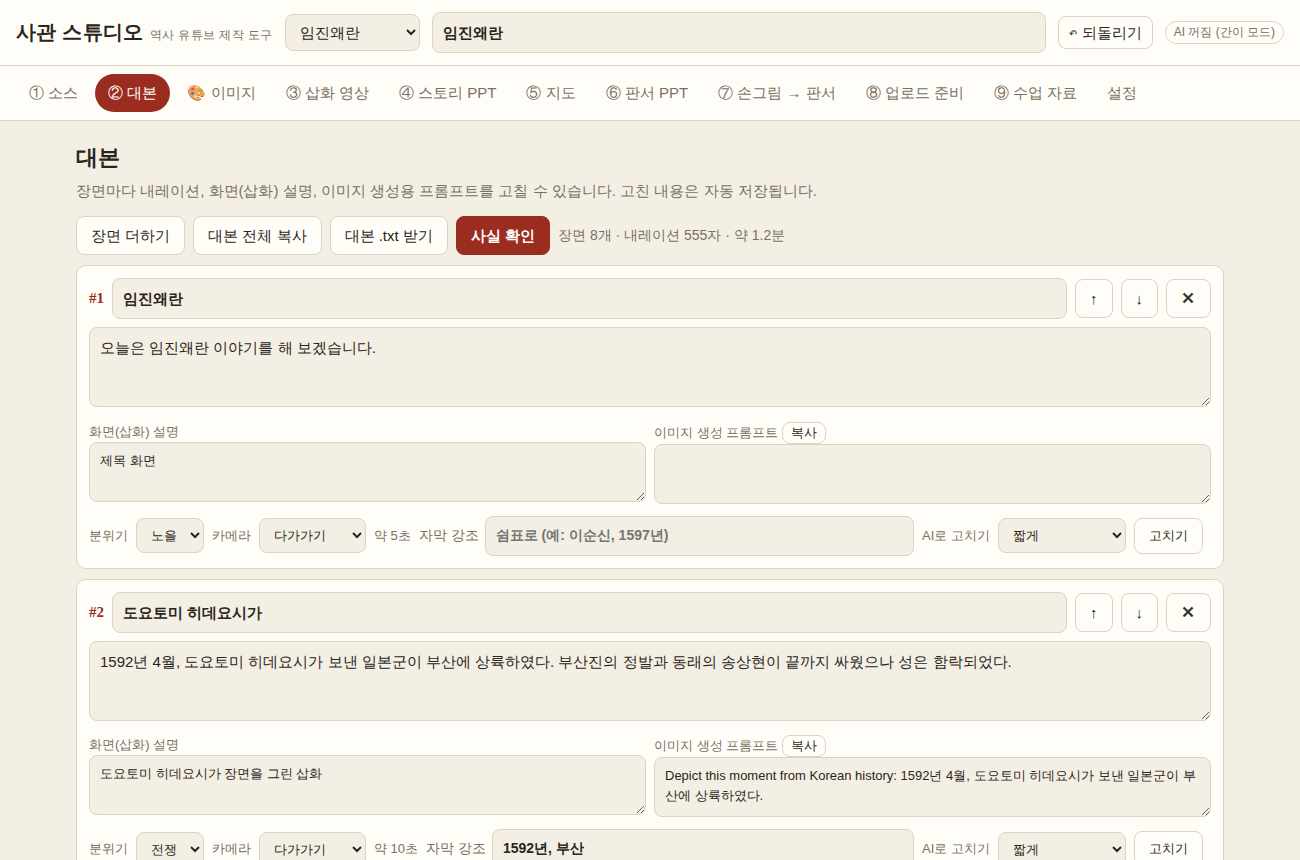
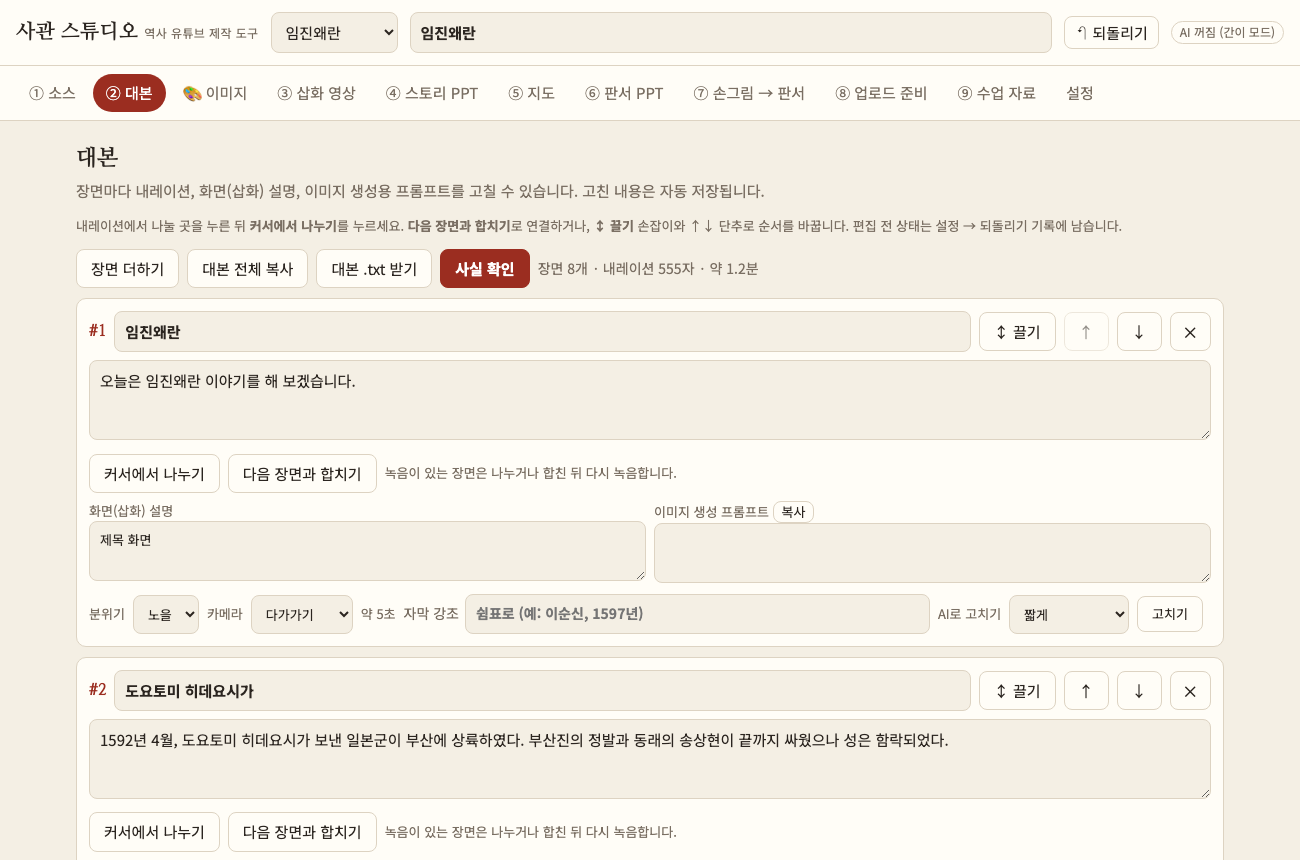
feat: add scene splitting merging and reordering

diff --git a/assets/scene-edit.js b/assets/scene-edit.js
@@ -1,0 +1,94 @@
+/* 장면 편집: 편집 전 기록을 남기고, 장면 번호를 사용하는 자료도 함께 옮깁니다. */
+(function(){
+  'use strict';
+  var HS = window.HS;
+  function clone(x){ return JSON.parse(JSON.stringify(x)); }
+  function sentences(text){ return (String(text || '').match(/[^.!?。]+[.!?。]?/g) || []).filter(function(x){ return x.trim(); }); }
+  function id(){
+    var next;
+    do { next = Math.random().toString(36).slice(2, 6); } while(HS.findShot(next));
+    return next;
+  }
+  function pictureShots(s){
+    if(s.shots && s.shots.length) return clone(s.shots);
+    if(s.image) return [{ id: id(), type: 'scene', desc: s.visual || s.heading, prompt: s.prompt || '', sentence: 0, places: [], image: s.image }];
+    return [{ id: id(), type: 'scene', desc: s.visual || s.heading, prompt: s.prompt || '', sentence: 0, places: [], image: HS.sceneStill(s, 1280, 720).toDataURL('image/png') }];
+  }
+  function remap(p, oldScenes, mapping, changedText){
+    if(p.thumb){ var ti = mapping[+p.thumb.scene]; p.thumb.scene = ti == null ? 0 : ti; }
+    if(changedText) p.checks = null;
+    else if(p.checks) p.checks.items = p.checks.items.filter(function(item){
+      var next = mapping[item.scene - 1]; if(next == null) return false; item.scene = next + 1; return true;
+    });
+    if(p.lesson) p.lesson.quiz.forEach(function(q){
+      if(q.scene > 0){ var next = mapping[q.scene - 1]; q.scene = next == null ? 0 : next + 1; }
+    });
+  }
+  HS.editScenes = function(action, index, value, options){
+    options = options || {};
+    var p = HS.project, old = p.scenes, a = old[index], b = old[index + 1];
+    if(HS.sceneEditBusy) return Promise.reject(new Error('앞선 장면 편집을 저장하고 있습니다. 잠시 기다려 주세요.'));
+    if(!a) return Promise.reject(new Error('장면을 찾을 수 없습니다.'));
+    if(HS.Q && HS.Q.running) return Promise.reject(new Error('그림 생성이 끝난 뒤 장면을 편집해 주세요.'));
+    if(['move', 'split', 'merge', 'delete'].indexOf(action) < 0) return Promise.reject(new Error('지원하지 않는 편집입니다.'));
+    if(action === 'move' && (value < 0 || value >= old.length || value === index)) return Promise.resolve(index);
+    if(action === 'merge' && !b) return Promise.reject(new Error('다음 장면이 없습니다.'));
+    var text = a.narration || '', cut = Math.floor(value);
+    if(action === 'split' && (!text.slice(0, cut).trim() || !text.slice(cut).trim() || !(cut > 0 && cut < text.length)))
+      return Promise.reject(new Error('내레이션에서 나눌 곳을 눌러 커서를 놓으세요. 앞뒤에 글이 있어야 합니다.'));
+    if((action === 'split' || action === 'merge') && (a.audio || (action === 'merge' && b.audio)) && !options.resetAudio)
+      return Promise.reject(new Error('대본이 바뀌면 해당 장면의 목소리를 다시 녹음해야 합니다.'));
+    var before = JSON.stringify(old), label = { move: '순서 바꾸기', split: '나누기', merge: '합치기', delete: '지우기' }[action];
+    HS.sceneEditBusy = true;
+    return HS.snapshot('장면 ' + label + ' 전', true).then(function(){ return action === 'merge' ? HS.preloadImages() : null; }).then(function(){
+      if(HS.project !== p || JSON.stringify(p.scenes) !== before) throw new Error('저장 중 대본이 바뀌었습니다. 다시 눌러 주세요.');
+      var mapping = old.map(function(s, i){ return i; }), scenes = old.slice();
+      if(action === 'move'){
+        scenes.splice(value, 0, scenes.splice(index, 1)[0]);
+        mapping = old.map(function(s){ return scenes.indexOf(s); });
+      } else if(action === 'delete'){
+        scenes.splice(index, 1);
+        mapping = old.map(function(s, i){ return i === index ? null : i > index ? i - 1 : i; });
+      } else if(action === 'split'){
+        var left = clone(a), right = clone(a), front = text.slice(0, cut).trim(), back = text.slice(cut).trim();
+        left.narration = front; right.narration = back; right.heading = (a.heading || '장면') + ' (계속)';
+        left.audio = right.audio = null; left.audioDur = right.audioDur = 0;
+        left.dur = right.dur = null; // 글 길이에 맞게 다시 계산
+        left.keywords = (a.keywords || []).filter(function(k){ return front.indexOf(k) >= 0; });
+        right.keywords = (a.keywords || []).filter(function(k){ return back.indexOf(k) >= 0; });
+        var spans = [], re = /[^.!?。]+[.!?。]?/g, match;
+        while((match = re.exec(text))) if(match[0].trim()) spans.push({start: match.index + match[0].search(/\S/), end: re.lastIndex});
+        var rightSentence = spans.filter(function(s){ return s.end <= cut; }).length;
+        left.shots = []; right.shots = [];
+        (a.shots || []).forEach(function(sh){
+          var copy = clone(sh), span = spans[sh.sentence || 0];
+          if(span && span.start >= cut){ copy.sentence = Math.max(0, (sh.sentence || 0) - rightSentence); right.shots.push(copy); }
+          else left.shots.push(copy);
+        });
+        // 나누는 지점에서 보이던 그림은 뒷 장면 첫 문장에서도 이어집니다. 새 ID로 주문서 충돌을 막습니다.
+        if(left.shots.length && (!right.shots.length || right.shots[0].sentence > 0)){
+          var carry = clone(left.shots[left.shots.length - 1]); carry.id = id(); carry.sentence = 0; right.shots.unshift(carry);
+        }
+        scenes.splice(index, 1, left, right);
+        mapping = old.map(function(s, i){ return i > index ? i + 1 : i; });
+      } else {
+        var merged = clone(a), offset = sentences(a.narration).length;
+        merged.narration = [a.narration, b.narration].filter(Boolean).join('\n');
+        // 마침표 없는 앞 문장도 별개 문장으로 끝내 샷의 문장 번호를 지킵니다.
+        if((a.narration || '').trim() && (b.narration || '').trim() && !/[.!?。]$/.test(a.narration.trim()))
+          merged.narration = a.narration.trim() + '.\n' + b.narration;
+        merged.keywords = (a.keywords || []).concat(b.keywords || []).filter(function(k, i, all){ return all.indexOf(k) === i; });
+        merged.audio = null; merged.audioDur = 0; merged.dur = null;
+        if(HS.sceneKind(a) === 'illust' && HS.sceneKind(b) === 'illust'){
+          merged.shots = pictureShots(a).concat(pictureShots(b).map(function(sh){ sh.sentence = (sh.sentence || 0) + offset; return sh; }));
+        }
+        scenes.splice(index, 2, merged);
+        mapping = old.map(function(s, i){ return i === index + 1 ? index : i > index + 1 ? i - 1 : i; });
+      }
+      p.scenes = scenes;
+      remap(p, old, mapping, action === 'split' || action === 'merge');
+      HS.changed('scenes');
+      return action === 'move' ? value : Math.min(index, scenes.length - 1);
+    }).finally(function(){ HS.sceneEditBusy = false; });
+  };
+})();

diff --git a/assets/ui.js b/assets/ui.js
@@ -161,9 +161,11 @@
     list.innerHTML = p.scenes.map(function(s, i){
       var fl = (flags[i] || []).map(function(v){ return '<span class="flag ' + v + '">' + HS.VERDICT[v] + '</span>'; }).join(' ');
       return '<div class="scene" data-i="' + i + '"><header class="row">' +
-        '<span class="num">#' + (i + 1) + '</span><input type="text" data-k="heading" value="' + HS.esc(s.heading) + '">' + fl +
-        '<button class="btn" data-act="up" title="위로">↑</button><button class="btn" data-act="down" title="아래로">↓</button><button class="btn" data-act="del" title="지우기">✕</button></header>' +
+        '<span class="num">#' + (i + 1) + '</span><input type="text" data-k="heading" aria-label="장면 제목" value="' + HS.esc(s.heading) + '">' + fl +
+        '<span class="btn drag-handle" draggable="true" title="다른 장면으로 끌어서 순서 바꾸기" aria-label="장면 끌기. 키보드에서는 위로 아래로 단추를 사용하세요">↕ 끌기</span>' +
+        '<button class="btn" data-act="up" title="위로" aria-label="장면 위로"' + (i === 0 ? ' disabled' : '') + '>↑</button><button class="btn" data-act="down" title="아래로" aria-label="장면 아래로"' + (i === p.scenes.length - 1 ? ' disabled' : '') + '>↓</button><button class="btn" data-act="del" title="지우기">✕</button></header>' +
         '<textarea data-k="narration" placeholder="내레이션">' + HS.esc(s.narration) + '</textarea>' +
+        '<div class="row scene-tools"><button class="btn" data-act="split">커서에서 나누기</button><button class="btn" data-act="merge"' + (i === p.scenes.length - 1 ? ' disabled' : '') + '>다음 장면과 합치기</button><span class="small">녹음이 있는 장면은 나누거나 합친 뒤 다시 녹음합니다.</span></div>' +
         '<div class="meta"><label class="small">화면(삽화) 설명<textarea data-k="visual">' + HS.esc(s.visual) + '</textarea></label>' +
         '<label class="small">이미지 생성 프롬프트 <button class="btn" data-act="copyprompt" style="padding:0 8px">복사</button><textarea data-k="prompt">' + HS.esc(s.prompt) + '</textarea></label></div>' +
         '<div class="row small" style="margin-top:6px">분위기 <select data-k="mood">' + opts(MOODS, s.mood) + '</select> 카메라 <select data-k="motion">' + opts(MOTIONS, s.motion) + '</select> <span>약 ' + Math.round(HS.sceneDuration(s)) + '초</span>' +
@@ -198,6 +200,30 @@
     HS.changed('scene');
   });
   $('scene-list').addEventListener('change', function(e){ if(e.target.tagName === 'SELECT' && e.target.dataset.k) renderScript(); });
+  function editScene(action, i, value, resetAudio){
+    HS.editScenes(action, i, value, { resetAudio: resetAudio }).then(function(next){
+      renderScript();
+      var input = $('scene-list').querySelector('[data-i="' + next + '"] [data-k="heading"]');
+      if(input) input.focus();
+      HS.toast(action === 'split' || action === 'merge' ? '장면을 편집했습니다. 사실 확인과 수업 자료를 다시 살펴보세요.' : '장면을 편집했습니다. 설정의 되돌리기 기록에서 복원할 수 있습니다.');
+    }).catch(function(err){ status('script-status', err.message, true); });
+  }
+  var draggedScene = null;
+  $('scene-list').addEventListener('dragstart', function(e){
+    var handle = e.target.closest('.drag-handle'); if(!handle) return;
+    draggedScene = +handle.closest('.scene').dataset.i;
+    e.dataTransfer.effectAllowed = 'move'; e.dataTransfer.setData('text/plain', String(draggedScene));
+  });
+  function clearDrop(){ Array.prototype.forEach.call($('scene-list').querySelectorAll('.drag-over'), function(el){ el.classList.remove('drag-over'); }); }
+  $('scene-list').addEventListener('dragover', function(e){
+    var box = e.target.closest('.scene'); if(draggedScene === null || !box) return;
+    e.preventDefault(); e.dataTransfer.dropEffect = 'move'; clearDrop(); box.classList.add('drag-over');
+  });
+  $('scene-list').addEventListener('drop', function(e){
+    var box = e.target.closest('.scene'); if(draggedScene === null || !box) return;
+    e.preventDefault(); var from = draggedScene; draggedScene = null; clearDrop(); editScene('move', from, +box.dataset.i);
+  });
+  $('scene-list').addEventListener('dragend', function(){ draggedScene = null; clearDrop(); });
   $('scene-list').addEventListener('click', function(e){
     var b = e.target.closest('button[data-act]'); if(!b) return;
     var box = b.closest('.scene'), i = +box.dataset.i, sc = P().scenes, act = b.dataset.act;
@@ -212,10 +238,21 @@
         .catch(function(err){ st.textContent = HS.whyFail(err); b.disabled = false; });
       return;
     }
-    if(act === 'del'){ if(!confirm('#' + (i + 1) + ' 장면을 지울까요?')) return; sc.splice(i, 1); }
-    if(act === 'up' && i > 0) sc.splice(i - 1, 0, sc.splice(i, 1)[0]);
-    if(act === 'down' && i < sc.length - 1) sc.splice(i + 1, 0, sc.splice(i, 1)[0]);
-    HS.changed('scenes'); renderScript();
+    if(act === 'split'){
+      var cut = box.querySelector('[data-k="narration"]').selectionStart, text = sc[i].narration || '';
+      if(!text.slice(0, cut).trim() || !text.slice(cut).trim()){ status('script-status', '내레이션에서 나눌 곳을 눌러 커서를 놓으세요. 앞뒤에 글이 있어야 합니다.', true); return; }
+      if(sc[i].audio && !confirm('이 장면의 목소리를 지우고 두 장면으로 나눌까요? 나눈 뒤 다시 녹음해야 합니다. 원본은 되돌리기 기록에 보관합니다.')) return;
+      editScene('split', i, cut, true); return;
+    }
+    if(act === 'merge'){
+      if(!sc[i + 1]) return;
+      var msg = '#' + (i + 1) + '과 #' + (i + 2) + '의 내레이션을 합칠까요?\n삽화 장면끼리는 그림 목록을 연결합니다. 장면 종류·자료·배경·인물·전환은 앞 장면 설정을 사용합니다. SVG 움직임은 정지 그림으로 바뀝니다.\n직접 정한 길이는 글 길이에 맞춰 다시 계산합니다. 원본은 되돌리기 기록에 보관합니다.';
+      if(sc[i].audio || sc[i + 1].audio) msg += '\n두 장면의 목소리는 지워지므로 다시 녹음해야 합니다.';
+      if(confirm(msg)) editScene('merge', i, null, true); return;
+    }
+    if(act === 'del'){ if(confirm('#' + (i + 1) + ' 장면을 지울까요? 원본은 되돌리기 기록에 남습니다.')) editScene('delete', i); return; }
+    if(act === 'up') editScene('move', i, i - 1);
+    if(act === 'down') editScene('move', i, i + 1);
   });
   $('btn-add-scene').addEventListener('click', function(){
     P().scenes.push({ heading: '새 장면', narration: '', visual: '', prompt: '', mood: 'day', motion: 'zoomIn', image: null });

diff --git a/index.html b/index.html
@@ -56,6 +56,9 @@ canvas{ max-width:100%; height:auto; display:block; border-radius:8px; backgroun
 .scene .meta{ display:grid; grid-template-columns:minmax(0,1fr) minmax(0,1fr); gap:8px; margin-top:8px; }
 @media (max-width:620px){ .scene .meta{ grid-template-columns:minmax(0,1fr); } }
 .scene .meta textarea{ min-height:60px; font-size:13px; }
+.scene .drag-handle{ cursor:grab; touch-action:pan-y; }
+.scene.drag-over{ outline:2px solid var(--accent); }
+.scene-tools{ margin:8px 0; }
 .small{ font-size:13px; color:var(--muted); }
 .thumbs{ display:flex; gap:8px; flex-wrap:wrap; }
 .thumbs canvas,.thumbs img{ width:180px; border:1px solid var(--line); }
@@ -200,6 +203,7 @@ table.places input{ width:100%; padding:4px 6px; }
 <section class="tab" id="tab-script">
   <h2>대본</h2>
   <p class="lead">장면마다 내레이션, 화면(삽화) 설명, 이미지 생성용 프롬프트를 고칠 수 있습니다. 고친 내용은 자동 저장됩니다.</p>
+  <p class="small">내레이션에서 나눌 곳을 누른 뒤 <b>커서에서 나누기</b>를 누르세요. <b>다음 장면과 합치기</b>로 연결하거나, <b>↕ 끌기</b> 손잡이와 ↑↓ 단추로 순서를 바꿉니다. 편집 전 상태는 설정 → 되돌리기 기록에 남습니다.</p>
   <div class="row" style="margin-bottom:10px">
     <button class="btn" id="btn-add-scene">장면 더하기</button>
     <button class="btn" id="btn-copy-script">대본 전체 복사</button>
@@ -552,6 +556,7 @@ table.places input{ width:100%; padding:4px 6px; }
 <script src="assets/package.js"></script>
 <script src="assets/queue.js"></script>
 <script src="assets/shots-ui.js"></script>
+<script src="assets/scene-edit.js"></script>
 <script src="assets/ui.js"></script>
 </body>
 </html>

diff --git a/assets/app.js b/assets/app.js
@@ -173,14 +173,14 @@
   HS.snapshots = function(){
     return idbGet('history:' + HS.project.id).catch(function(){ return null; }).then(function(h){ return h || []; });
   };
-  HS.snapshot = function(label){
+  HS.snapshot = function(label, required){
     var p = HS.project;
     if(!p.scenes.length) return Promise.resolve(); // 대본이 없으면 되돌릴 것도 없습니다
     var snap = { at: new Date().toISOString(), label: label, title: p.title, scenes: p.scenes.length, project: JSON.parse(JSON.stringify(p)) };
     return HS.snapshots().then(function(h){
       h.unshift(snap);
       return idbPut('history:' + p.id, h.slice(0, SNAP_MAX));
-    }).catch(function(){});
+    }).catch(function(e){ if(required) throw new Error('되돌리기 기록을 저장하지 못해 편집을 멈췄습니다. 백업을 받은 뒤 저장 공간을 확인해 주세요.'); });
   };
   HS.restoreSnapshot = function(i){
     return HS.snapshots().then(function(h){

diff --git a/docs/HANDOFF.md b/docs/HANDOFF.md
@@ -26,6 +26,34 @@ Codex와 Claude Code가 번갈아 이 프로젝트를 고칩니다. **작업을 
 
 ## 기록
 
+### 2026-09-25 · Codex · codex/scene-editing
+
+**한 일**
+- 선생님이 고른 두 작업을 진행했습니다: 짧은 영상 제작 흐름 점검, 장면 나누기·합치기·끌어서 순서 바꾸기(A7).
+- GitHub 최신 main(`c265878`)을 확인했습니다. 이전 점검 기록 브랜치가 미병합임을 알리고, 그 기록을 포함한 새 브랜치에서 이어 작업했습니다.
+- ② 대본에 커서에서 나누기, 다음 장면과 합치기, 끌기 손잡이를 넣었습니다. ↑↓로도 옮길 수 있습니다. 편집·삭제 전 되돌리기 기록 저장에 실패하면 작업을 중단합니다.
+- 그림 샷과 후보를 보존하고, 이어지는 샷 복제에는 새 ID를 줍니다. 순서 변경 시 썸네일·사실 확인·퀴즈의 장면 번호도 옮깁니다. 나누기·합치기는 길이를 재계산하고 사실 확인을 초기화합니다. 녹음 삭제는 확인 후 진행합니다.
+- 명량 해전 소스 → 간이 대본·자료 → 이미지 주문서 → Codex 내장 도구로 실제 그림 2장 생성 → 파일명으로 불러오기 → 한국어 컴퓨터 음성 파일 → 약 15초 WebM 녹화·백업·전체 자료 ZIP 저장까지 진행했습니다. 상세 과정은 `docs/DEMO.md`입니다.
+- README·AGENTS 사용법과 대본 화면 사진을 갱신했습니다. 용량이 큰 시연 결과는 로컬 `output/demo/`에 보관하고 Git에서는 제외합니다.
+
+**확인한 것**
+- `npm run check`: 24개 스크립트 문법 검사 통과. `npm test`: 기존 62개와 새 편집 시험 6개, 총 68개 모두 통과. 설치된 Chromium headless shell(build 1223)을 `CHROMIUM_PATH`로 지정했습니다.
+- 새 시험: 커서 분할·문장 중간 샷 배치·저장·복원, 녹음 삭제 취소, 그림 후보 유지, 실제 마우스 끌기·키보드 이동, 연결된 자료 번호, 저장 실패·그림 생성 중 편집 차단, 삽화 보존·자료 장면 합치기.
+- `npm run screens` 실행 후 최종 대본 화면을 직접 확인했습니다. 시연 프로젝트의 휴대폰 폭(375px) 화면도 확인했습니다. 커밋에는 변경된 대본 화면 사진만 포함합니다.
+- 시연 영상은 1280×720, 앱 타임라인 14.74초, 5,263,930바이트입니다. 내려받은 영상의 5초 화면과 음성 해독·무음 아님을 확인했고 자바스크립트 오류는 없었습니다.
+
+**확인하지 못한 것 · 알려진 문제**
+- 실제 Claude 대본·사실 확인 API와 OpenAI·Gemini 이미지 API는 사용하지 않았습니다. 자동 시험의 API·마이크 응답은 가짜입니다. 실제 이미지 생성은 Codex 내장 도구로 별도 검증했습니다.
+- 선생님 마이크 녹음·음성 청취 품질, PPT를 PowerPoint로 열기, 편집 프로그램 MP4 호환성, 생성 그림의 역사 고증은 미확인입니다. 시연 음성은 macOS Yuna이며 앱에 TTS 기능을 새로 넣은 것은 아닙니다.
+- 합치기는 앞 장면의 종류·자료·인물·전환 설정을 유지합니다. 삽화 그림 목록은 연결하고 SVG·자동 배경은 정지 그림으로 바꿉니다. 녹음이 있는 장면을 나누거나 합치면 확인 후 녹음을 지우므로 다시 녹음해야 합니다. 변경 전 원본은 되돌리기 기록에 남습니다.
+- 나누기·합치기 후 기존 수업 자료는 내용 재검토가 필요합니다. 앞서 발견한 의존성 보안 경고 2건은 이번 범위에서 수정하지 않았습니다.
+
+**다음 할 일**
+1. 선생님이 로컬 시연 영상과 `output/demo/project-backup.json`을 확인하고, 실제 녹음과 원하는 역사 자료로 제작해 보기. 이번 브랜치는 아직 main에 합치지 않았습니다.
+2. 생성 그림의 복식·배·깃발·지형을 검수하고, 실제 제작에서 나온 문제를 우선 수정하기.
+3. API 키를 브라우저 설정에 직접 넣은 환경에서 실제 AI 대본·이미지 기획을 확인하기. 채팅이나 Git에 키를 넣지 않기.
+4. 의존성 경고 영향·해결 방법 검토. 수업 발표 모드(A4)와 기타 제안은 미착수입니다. A7의 기본 편집 기능은 완료했습니다.
+
 ### 2026-09-25 · Codex · codex/project-review
 
 **한 일**

diff --git a/docs/DEMO.md b/docs/DEMO.md
@@ -1,0 +1,36 @@
+# 명량 해전 제작 흐름 점검 · 2026-09-25
+
+## 실제로 해 본 과정
+
+1. 별도의 빈 시험 브라우저에서 아래 글을 **① 소스**에 붙였습니다.
+   > 명량 해전
+   > 1597년, 이순신이 이끄는 조선 수군은 명량에서 일본 수군과 싸웠습니다. 이순신은 좁은 울돌목의 지형을 활용했습니다.
+2. **한 번에 만들기 → 시작**으로 대본 2장면, 이미지 기획, 업로드 정보, 수업 자료를 만들었습니다. API 키가 없는 간이 모드입니다.
+3. 앱이 만든 이미지 주문서 ZIP을 열어 프롬프트를 읽고, Codex 내장 이미지 생성 도구로 실제 그림 2장을 만들었습니다. 생성 요청에는 주문서의 프롬프트를 그대로 사용했습니다.
+4. 파일 이름을 주문서대로 `S01-1_2ptk.png`, `S02-1_0k9k.png`로 맞춰 **🎨 이미지 → 만든 이미지 불러오기**로 넣었습니다. 두 그림 모두 제 장면에 들어갔습니다.
+5. macOS Yuna 음성으로 만든 한국어 WAV 파일을 각 장면의 **소리 파일** 입력으로 넣었습니다. 선생님 목소리나 마이크 녹음은 아닙니다.
+6. **③ 삽화 영상 → 영상 녹화**로 실제 WebM을 내려받았습니다. 1280×720, 앱 타임라인 약 14.74초, 파일 5,263,930바이트입니다.
+7. 내려받은 영상을 브라우저에서 다시 열어 5초 지점의 화면을 확인했습니다. 영상의 음성 데이터도 해독되고 무음이 아닌 것을 수치로 확인했습니다. 실행 중 자바스크립트 오류는 없었습니다.
+8. 프로젝트 백업과 전체 자료 ZIP을 저장했습니다. 바뀐 대본 편집 화면은 데스크톱과 휴대폰 폭에서 확인했습니다.
+
+## 결과 파일
+
+이 점검을 수행한 컴퓨터의 `output/demo/`에 보관했습니다. 용량이 큰 시연 결과는 Git 커밋에 넣지 않습니다.
+
+- `myeongnyang-demo.webm`: 그림·자막·컴퓨터 음성이 포함된 시연 영상
+- `project-backup.json`: **설정 → 백업 불러오기**로 여는 시연 프로젝트
+- `all-materials.zip`: 앱에서 만든 대본·PPT·학습지 등
+- `image-order.zip`, `prompts.json`, `S01-1_2ptk.png`, `S02-1_0k9k.png`: 주문서, 생성 프롬프트와 실제 그림
+- `verification.json`, `recorded-frame.png`, `images-imported.png`, `editor-mobile.png`: 점검 수치와 화면
+
+## 이번에 확인하지 못한 것
+
+- 실제 Claude API 대본 생성과 OpenAI·Gemini 이미지 API 연결은 사용하지 않았습니다.
+- 선생님 마이크 녹음, 음성의 청취 품질, PPT를 PowerPoint에서 열기, 편집 프로그램의 MP4 호환성은 미확인입니다.
+- 생성 그림의 배·복식·깃발·지형은 고증 검수를 마치지 않았습니다. 영상 제작 흐름을 확인하는 시연용이며, 수업이나 공개 영상에 쓰기 전 역사 내용과 그림을 검토해야 합니다.
+- 기본 Playwright 지정 브라우저 설치는 이전 점검에서 멈췄으므로, 설치된 Chromium headless shell(build 1223)을 지정했습니다.
+
+## 점검 중 해결한 환경 문제
+
+- 샌드박스 안에서 macOS 음성 생성 명령이 길이 0인 파일을 만들었습니다. 시스템 음성 서비스에 접근 가능한 실행으로 다시 만들자 정상 음성이 저장됐습니다. 앱의 파일 입력 문제는 아니었습니다.
+- 끌기 자동 시험은 대상 장면이 화면 밖에 있으면 끌기 이벤트를 만들지 못했습니다. 두 장면이 보이는 화면 크기에서 실제 마우스 끌기와 키보드 ↑↓ 조작을 확인했습니다.

diff --git a/AGENTS.md b/AGENTS.md
@@ -42,7 +42,7 @@ This repo was started from the same author's 어전회의 (eojeon) project and f
 ```
 npm run setup     # npm install + npx playwright install chromium (needs internet)
 npm run check     # syntax of every script + index.html script list (offline, a second)
-npm test          # node tests/e2e.mjs — 62 Playwright tests (Chromium runs with a fake microphone);
+npm test          # node tests/e2e.mjs — 68 Playwright tests (Chromium runs with a fake microphone);
                   # Claude / OpenAI / Gemini / YouTube oEmbed are all mocked, so no keys or network are needed
 ```
 Codex sandboxes usually have no network while the agent runs: do `npm run setup` in the environment's setup
@@ -75,6 +75,7 @@ the app chose by wrapping `HS.download`.
 | `assets/lesson.js` | ⑨ tab: `HS.generateLessonAI` / `HS.generateLessonSimple`, `HS.worksheetHtml(teacher)` (print-ready HTML), `HS.exportQuizPptx` (question → answer slides); wires its own UI |
 | `assets/upload.js` | ⑧ tab: `HS.descriptionSuffix` (chapters + `HS.referencesText`, appended to the description and stripped when edited), `HS.srt` (from `HS.subtitleCues`, same timing as burned-in subtitles), `HS.chapters`, `HS.generateUploadAI` / `HS.uploadSimple`, `HS.drawThumbnail`; wires its own UI |
 | `assets/ui.js` | Wires tabs, inputs and buttons |
+| `assets/scene-edit.js` | `HS.editScenes(action,index,value,options)` for split-at-cursor, merge-next, move, delete. Requires a successful undo snapshot (`HS.snapshot(label,true)`); remaps thumbnail, check and quiz scene references. Split/merge reset duration and invalidate checks; recorded audio is removed only with `resetAudio` consent from the UI. Split copies continuing shots with new IDs; merge connects illustration shots, freezes SVG/procedural backgrounds as stills, and keeps first-scene kind/data/character/transition. Blocks edits during running image queue jobs and rejects concurrent stale edits. |
 | `content/places.js` | Gazetteer (name, aliases, lon/lat, kind) used by offline map extraction — extend freely |
 | `content/sample.js` | Sample source (임진왜란) |
 | `content/geo.js` | **Generated** by `tools/vendor.mjs` (Natural Earth 1:50m, East Asia). Never edit by hand |

diff --git a/README.md b/README.md
@@ -45,6 +45,10 @@
    - 설정에 Anthropic API 키를 넣으면 Claude가 대본·판서·지도(지명, 경로, 나라 판도 영역, 지도로 보여 줄 장면)를 한 번에 짜 줍니다.
    - 키가 없으면 문장을 장면으로 나누고 지명·연도를 뽑는 **간이 모드**로 만듭니다.
 2. **② 대본** — 장면마다 내레이션, 화면(삽화) 설명, 이미지 생성용 영어 프롬프트를 고칩니다.
+   - **장면 나누기**: 내레이션에서 나눌 곳을 눌러 커서를 놓고 **커서에서 나누기**. 그림 목록은 문장 위치에 맞게 나뉘고, 이어지는 그림은 뒷 장면에도 남습니다.
+   - **장면 합치기**: **다음 장면과 합치기**를 누릅니다. 내레이션과 삽화 장면의 그림 목록을 연결하며, 장면 종류·자료·배경·인물·전환은 앞 장면 설정을 유지합니다. SVG 움직임은 정지 그림으로 바뀝니다.
+   - **순서 바꾸기**: **↕ 끌기** 손잡이를 다른 장면으로 옮기거나 ↑↓를 누릅니다. 휴대폰과 키보드에서는 ↑↓를 사용하세요. 썸네일·퀴즈·사실 확인의 장면 번호도 따라갑니다.
+   - 나누기·합치기·순서 변경·삭제 전에는 **설정 → 되돌리기 기록**에 원본을 남깁니다. 나누거나 합친 장면은 길이를 다시 계산하며, 녹음이 있으면 확인 후 지우므로 다시 녹음해야 합니다. 사실 확인 결과는 초기화되고, 수업 자료 내용은 다시 검토하세요.
    - **AI로 고치기**: 장면 하나만 짧게 / 쉽게 / 더 극적으로 / 사료 인용 넣기 / 질문으로 시작 / 직접 요청.
    - **사실 확인**: Claude가 대본의 주장(인물·연도·장소·숫자·인과)을 소스와 맞대어 보고,
      "소스와 다름 · 소스에 없음 · 해석이 갈림"을 근거 구절과 함께 알려 줍니다. 문제 있는 장면에는 표시가 붙습니다.
